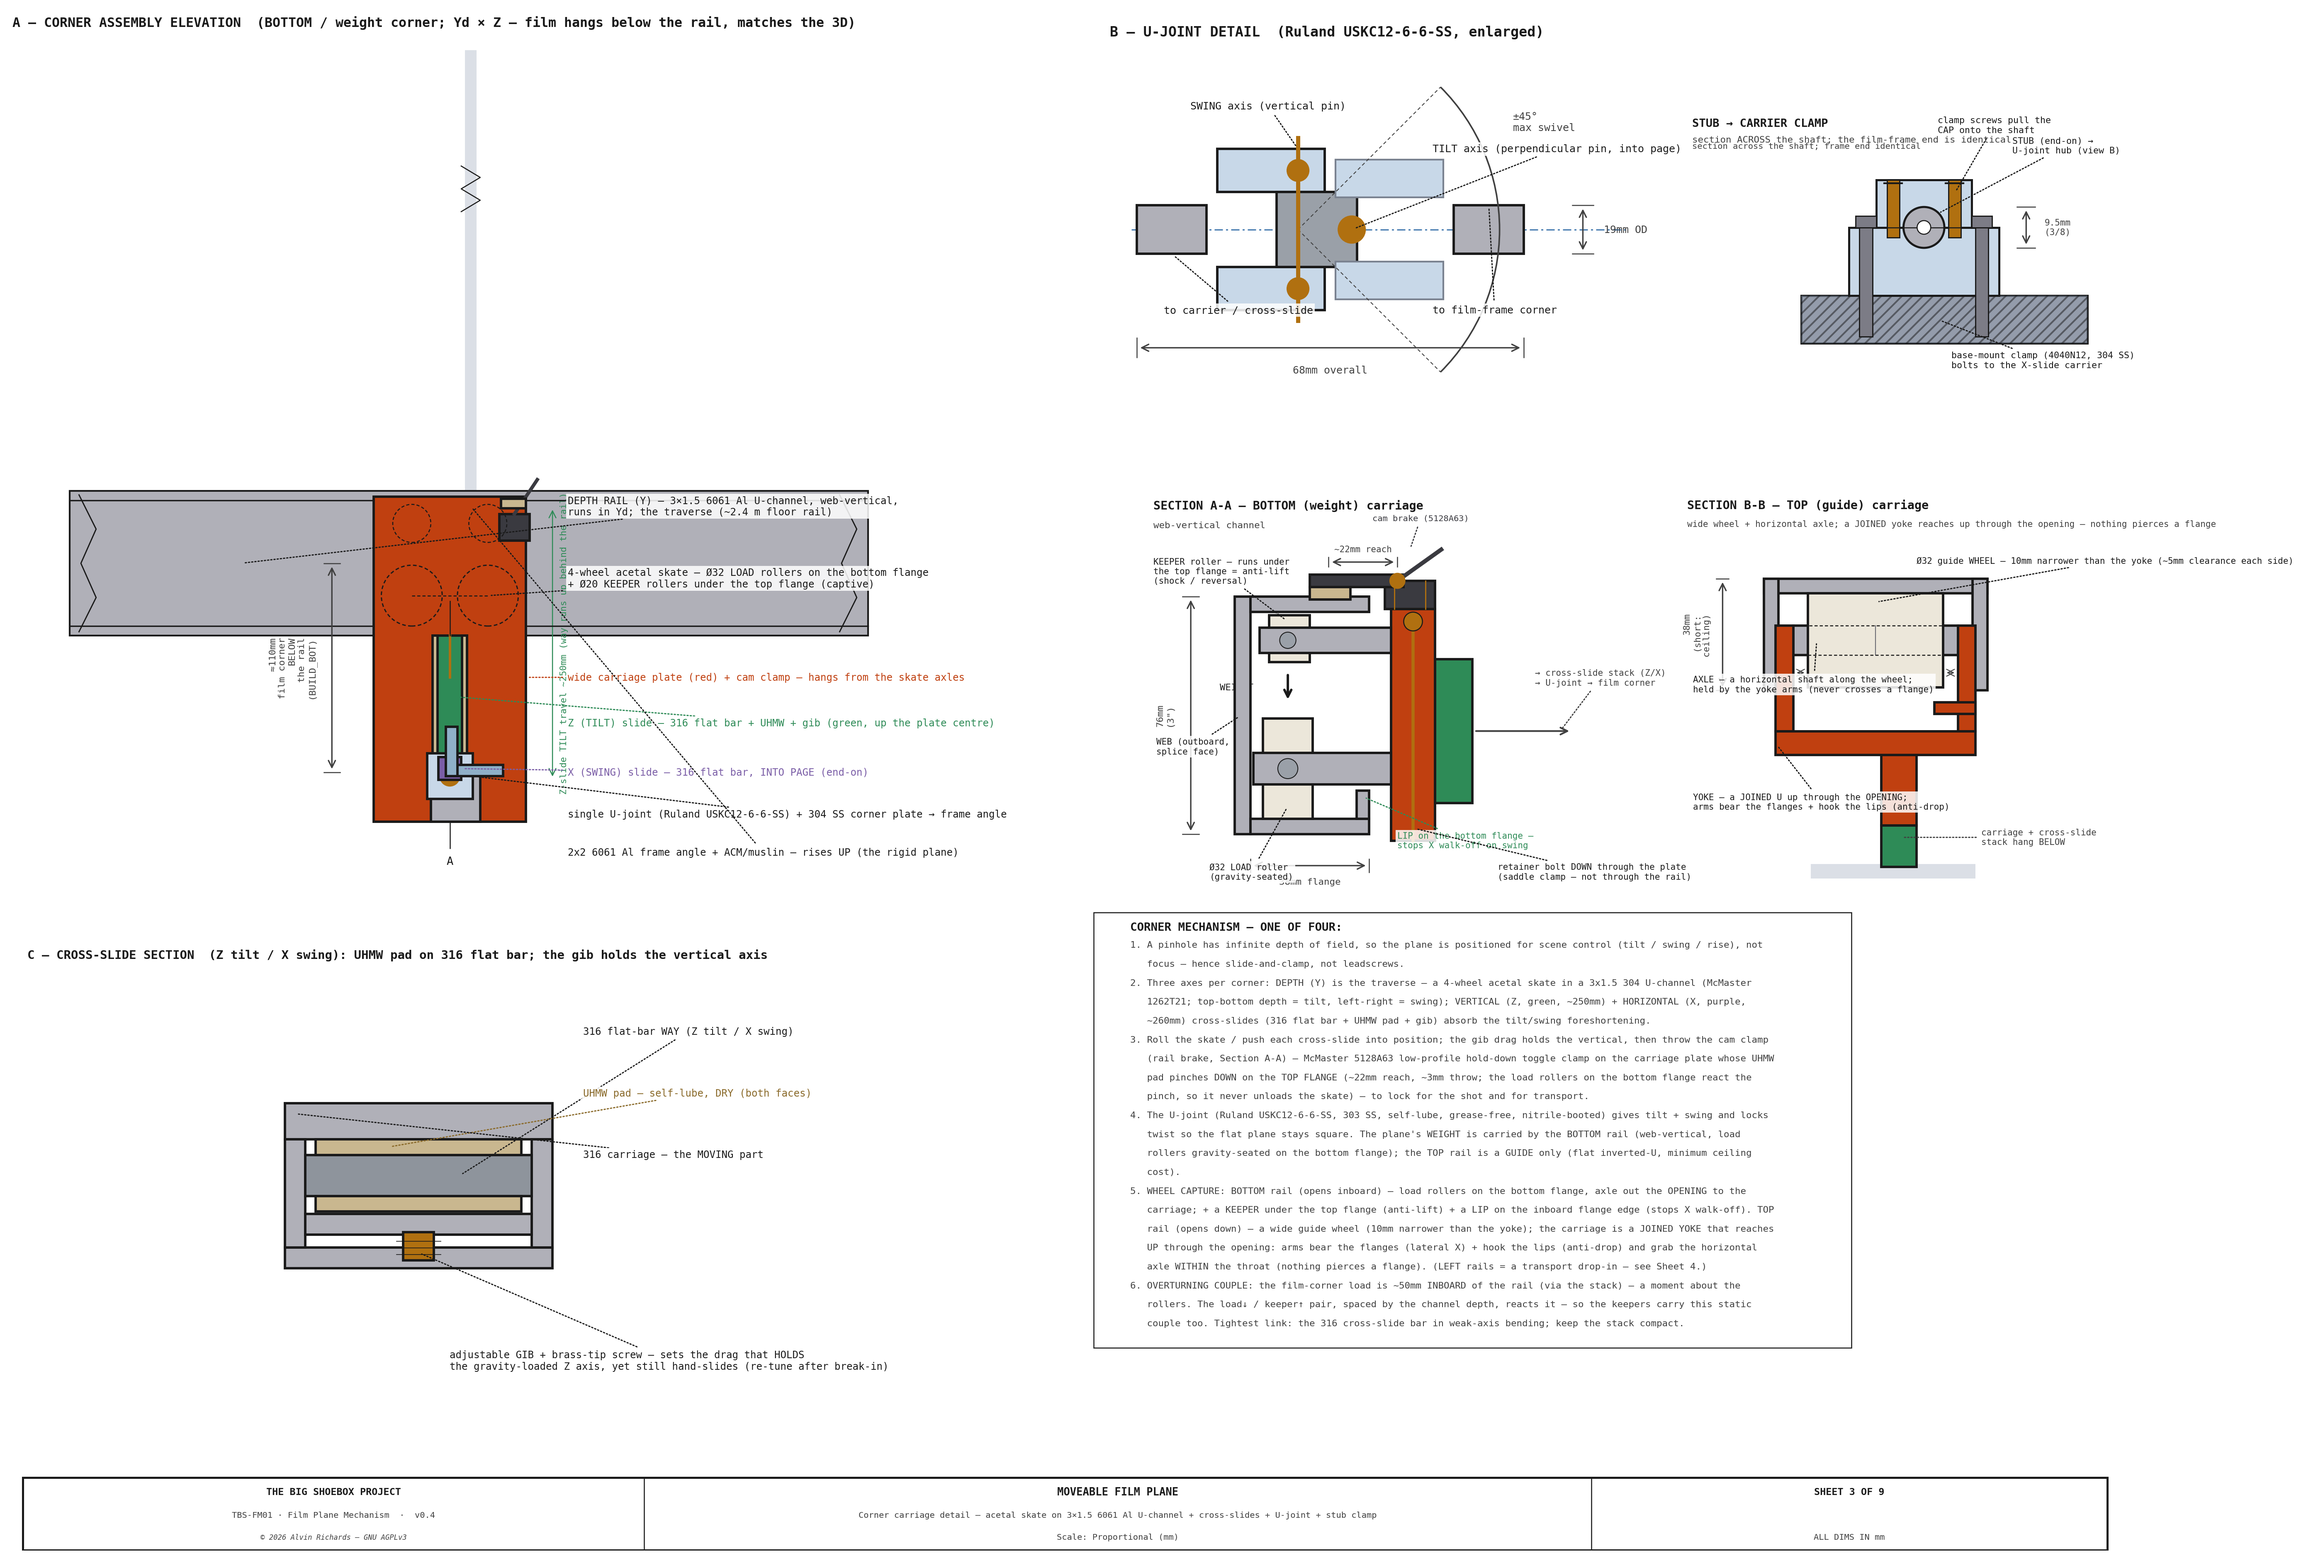
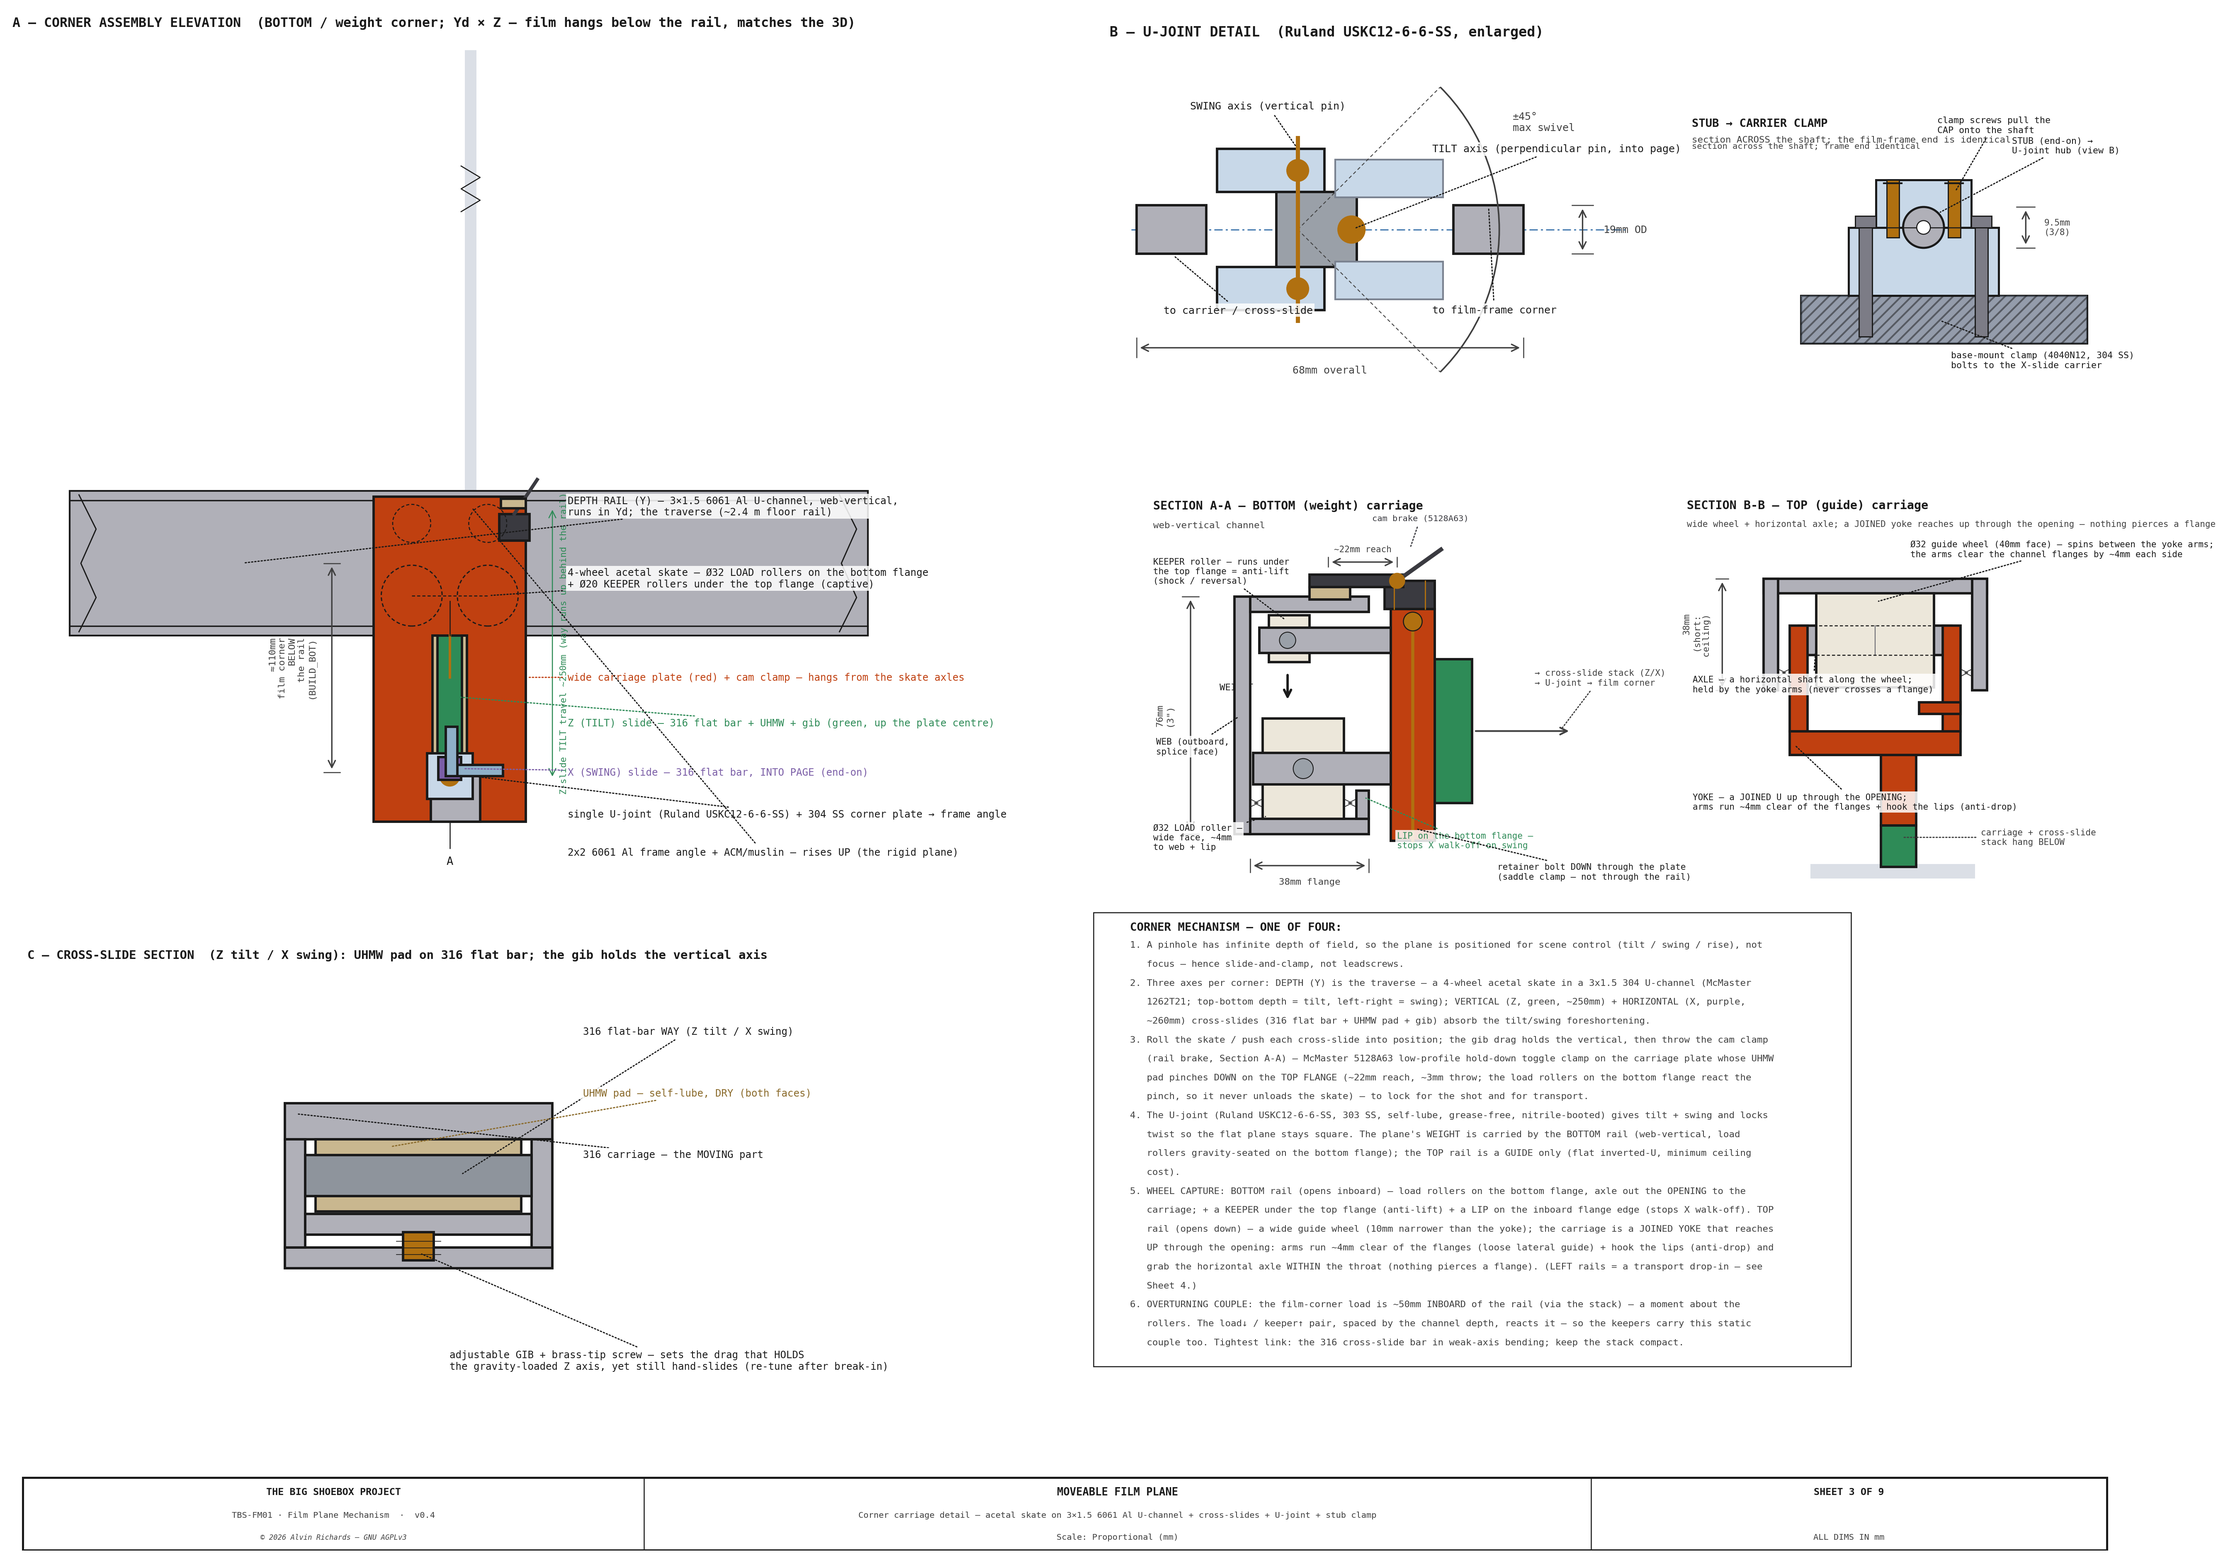
Sheet 3: widen A-A load roller + B-B yoke-flange clearance
Section A-A: load roller face 16->26mm so it nearly spans the flat running
surface (web->lip = 34mm), ~4mm clearance each side; clearance arrows + label.
Section B-B: move yoke arms in to clear the channel flanges by ~4mm each side,
shrink the guide wheel 46->40mm to keep ~3mm to each arm; retarget clearance
marks + reword the yoke labels/docstring/note 5 (arms no longer *bear* the
flanges — loose lateral guide).

diff --git a/src/generators/generate_film_plane_mechanism.py b/src/generators/generate_film_plane_mechanism.py
@@ -821,10 +821,14 @@ def section_aa(ax):
     _uchan_hatch(ax, 5, 0, 38, 5)          # BOTTOM flange (running surface)
     _uchan_hatch(ax, 39, 5, 4, 9)          # inboard LIP on the bottom flange (lateral keeper, X)
     _uchan_hatch(ax, 5, 71, 38, 5)         # top flange
-    # ── Ø32 acetal LOAD roller, gravity-seated on the bottom flange (edge-on: axis = X, in-plane) ──
-    _rect(ax, 9, 5, 16, 32, C_ACET, z=7)                                            # Ø32 LOAD roller (rim, cut)
+    # ── Ø32 acetal LOAD roller, gravity-seated on the bottom flange (edge-on: axis = X, in-plane). WIDE
+    #    FACE: nearly spans the flat running surface (web → lip = 34mm), ~4mm clearance to web + lip so it
+    #    can't wander in X yet still rolls free. ──
+    _rect(ax, 9, 5, 26, 32, C_ACET, z=7)                                            # Ø32 LOAD roller (rim, cut) — wide face
     _rect(ax, 6, 16, 44, 10, C_STEEL, z=8)                                          # Ø10 axle/shaft — runs THROUGH the wheel, cantilevered to the carriage
-    draw_circle(ax, 17, 21, 3.2, color=OUT, fill=True, fc="#9AA0A8", lw=0.5, zorder=9)  # hub at the wheel centre (shaft goes through)
+    draw_circle(ax, 22, 21, 3.2, color=OUT, fill=True, fc="#9AA0A8", lw=0.5, zorder=9)  # hub at the wheel centre (shaft goes through)
+    for gx0, gx1 in ((5, 9), (35, 39)):                                             # ~4mm running clearance, web + lip
+        ax.annotate("", xy=(gx1, 10), xytext=(gx0, 10), arrowprops=dict(arrowstyle="<->", color=DIM, lw=0.5))
     # ── KEEPER roller, just under the top flange (anti-lift), on its own stub axle ──
     _rect(ax, 11, 55, 13, 15, C_ACET, z=7)                                          # keeper roller (rim, cut)
     _rect(ax, 8, 58, 42, 8, C_STEEL, z=8)                                           # keeper stub axle — THROUGH the wheel to the carriage
@@ -858,7 +862,7 @@ def section_aa(ax):
     draw_dim_h(ax, 5, 43, -10, "38mm flange", offset=7, fs=5.4, color=DIM, above=False, font=FONT)
     # leaders
     leader(ax, 2, 38, -25, 28, "WEB (outboard,\nsplice face)", ha="left", fs=5.0, color=OUT, font=FONT, bbox=LBL_BG)
-    leader(ax, 17, 9, -8, -12, "Ø32 LOAD roller\n(gravity-seated)", ha="left", fs=5.0, color=OUT, font=FONT, bbox=LBL_BG)
+    leader(ax, 11, 6, -26, -1, "Ø32 LOAD roller —\nwide face, ~4mm\nto web + lip", ha="left", fs=5.0, color=OUT, font=FONT, bbox=LBL_BG)
     leader(ax, 17, 68, -26, 84, "KEEPER roller — runs under\nthe top flange = anti-lift\n(shock / reversal)", ha="left", fs=5.0, color=OUT, font=FONT, bbox=LBL_BG)
     leader(ax, 41, 12, 52, -2, "LIP on the bottom flange —\nstops X walk-off on swing", ha="left", fs=5.0, color=C_TILT, font=FONT, bbox=LBL_BG)
     leader(ax, 57, 2, 84, -12, "retainer bolt DOWN through the plate\n(saddle clamp — not through the rail)", ha="left", fs=5.0, color=OUT, font=FONT, bbox=LBL_BG)
@@ -872,39 +876,39 @@ def section_top(ax):
     """SECTION B-B — cut across the TOP (guide) rail. The 3×1.5 6061 Al U-channel is laid FLAT (inverted-U):
     web = closed TOP, flanges hang DOWN, so the channel OPENS DOWNWARD. The guide drum's axle therefore stays
     WITHIN the throat; the carriage is a YOKE that reaches UP through the opening (past the lips) — its arms
-    bear the flanges (lateral X) + hook the lips (anti-drop) and grab the axle ends, so nothing pierces a
-    flange. Top rail carries NO weight (a depth/lateral guide); short in Z = minimum ceiling cost."""
+    run ~4mm clear of the flanges (loose lateral guide) + hook the lips (anti-drop) and grab the axle ends, so
+    nothing pierces a flange. Top rail carries NO weight (a depth/lateral guide); short in Z = minimum ceiling cost."""
     ax.set_xlim(-26, 122); ax.set_ylim(-66, 66); ax.set_aspect("equal"); ax.axis("off")
     # inverted-U: web on top (closed), flanges hang down — opening faces DOWN
     _uchan_hatch(ax, 0, 33, 76, 5)          # web = closed top / splice face (76 wide)
     for fx in (0, 71):
         _uchan_hatch(ax, fx, 0, 5, 38)      # flanges hang down (38)
-    # WIDE Ø32 acetal guide WHEEL in the throat (Z guide, up against the web) — face width = 10mm NARROWER than the
-    # yoke span (arms at x10/x66 → 56 span → 46 face), leaving ~5mm running clearance to each yoke arm.
-    _rect(ax, 15, 1, 46, 32, C_ACET, z=7)
+    # WIDE Ø32 acetal guide WHEEL in the throat (Z guide, up against the web) — 40mm face, spins between the
+    # yoke arms (arms at x9-15 / x61-67 → 46 inner span → 40 face → ~3mm clearance to each arm).
+    _rect(ax, 18, 1, 40, 32, C_ACET, z=7)
     # AXLE — a HORIZONTAL shaft along the wheel's length (X); it runs out to the yoke arms and stays in the throat
-    _rect(ax, 10, 12, 56, 10, C_STEEL, z=6)
+    _rect(ax, 12, 12, 52, 10, C_STEEL, z=6)
     # ghost the axle where it is HIDDEN behind the wheel — shows the shaft passing THROUGH the wheel
-    ax.add_patch(plt.Rectangle((15, 12), 46, 10, fc="none", ec=OUT, lw=0.6, ls=(0, (3, 2)), zorder=9))
+    ax.add_patch(plt.Rectangle((18, 12), 40, 10, fc="none", ec=OUT, lw=0.6, ls=(0, (3, 2)), zorder=9))
     ax.plot([38, 38], [12, 22], color="#6A6A72", lw=0.5, zorder=8)
-    # ~5mm running-clearance marks between the wide wheel and each yoke arm
-    for gx0, gx1 in ((10, 15), (61, 66)):
+    # ~4mm running-clearance marks between each yoke arm and the channel flange it reaches past
+    for gx0, gx1 in ((5, 9), (67, 71)):
         ax.annotate("", xy=(gx1, 6), xytext=(gx0, 6), arrowprops=dict(arrowstyle="<->", color=DIM, lw=0.5))
-    # YOKE — a JOINED U-bracket up through the OPENING: two arms grab the axle ends + bear the flanges (lateral X)
+    # YOKE — a JOINED U-bracket up through the OPENING: two arms clear the flanges by ~4mm (running guide, lateral X)
     # + hook the lips (anti-drop), JOINED by a cross-piece below the opening (one part).
-    for ax_x in (4, 66):
-        _rect(ax, ax_x, -14, 6, 36, C_CAR, z=8)                                      # yoke arm (through opening, against a flange)
-    _rect(ax, 4, -22, 68, 8, C_CAR, z=8)                                             # cross-piece JOINS the two arms
-    _rect(ax, 58, -8, 14, 4, C_CAR, z=9)                                             # inboard lip-hook (anti-drop)
+    for ax_x in (9, 61):
+        _rect(ax, ax_x, -14, 6, 36, C_CAR, z=8)                                      # yoke arm (through opening, ~4mm off a flange)
+    _rect(ax, 9, -22, 58, 8, C_CAR, z=8)                                             # cross-piece JOINS the two arms
+    _rect(ax, 53, -8, 14, 4, C_CAR, z=9)                                             # inboard lip-hook (anti-drop)
     # carriage + stack hang from the joined yoke
     _rect(ax, 40, -46, 12, 24, C_CAR, z=6)                                           # carriage plate (below the yoke)
     _rect(ax, 40, -60, 12, 14, C_TILT, z=5)                                          # cross-slide (green) hangs below
     ax.add_patch(plt.Rectangle((16, -64), 56, 5, fc=C_PANEL, ec="none", alpha=0.16, zorder=2))  # film top edge ghost (hangs)
     ax.annotate("", xy=(38, 33), xytext=(38, 25), arrowprops=dict(arrowstyle="->", color=OUT, lw=1.0))  # guide reaction UP
     draw_dim_v(ax, -14, 0, 38, "38mm\n(short:\nceiling)", offset=7, fs=5.2, color=DIM, font=FONT)
-    leader(ax, 38, 30, 52, 44, "Ø32 guide WHEEL — 10mm narrower than the yoke (~5mm clearance each side)", ha="left", fs=5.0, color=OUT, font=FONT, bbox=LBL_BG)
+    leader(ax, 38, 30, 50, 48, "Ø32 guide wheel (40mm face) — spins between the yoke arms;\nthe arms clear the channel flanges by ~4mm each side", ha="left", fs=5.0, color=OUT, font=FONT, bbox=LBL_BG)
     leader(ax, 18, 17, -24, 2, "AXLE — a horizontal shaft along the wheel;\nheld by the yoke arms (never crosses a flange)", ha="left", fs=5.0, color=OUT, font=FONT, bbox=LBL_BG)
-    leader(ax, 4, -18, -24, -38, "YOKE — a JOINED U up through the OPENING;\narms bear the flanges + hook the lips (anti-drop)", ha="left", fs=5.0, color=OUT, font=FONT, bbox=LBL_BG)
+    leader(ax, 10, -18, -24, -38, "YOKE — a JOINED U up through the OPENING;\narms run ~4mm clear of the flanges + hook the lips (anti-drop)", ha="left", fs=5.0, color=OUT, font=FONT, bbox=LBL_BG)
     leader(ax, 46, -50, 74, -50, "carriage + cross-slide\nstack hang BELOW", ha="left", fs=5.0, color=DIM, font=FONT, bbox=LBL_BG)
     ax.text(-26, 65, "SECTION B-B — TOP (guide) carriage",
             fontsize=6.8, fontweight="bold", color=OUT, ha="left", va="top", **FONT)
@@ -986,8 +990,8 @@ def sheet3():
         "5. WHEEL CAPTURE: BOTTOM rail (opens inboard) — load rollers on the bottom flange, axle out the "
         "OPENING to the carriage; + a KEEPER under the top flange (anti-lift) + a LIP on the inboard flange "
         "edge (stops X walk-off). TOP rail (opens down) — a wide guide wheel (10mm narrower than the yoke); the "
-        "carriage is a JOINED YOKE that reaches UP through the opening: arms bear the flanges (lateral X) + "
-        "hook the lips (anti-drop) and grab the horizontal axle WITHIN the throat (nothing pierces a flange). "
+        "carriage is a JOINED YOKE that reaches UP through the opening: arms run ~4mm clear of the flanges "
+        "(loose lateral guide) + hook the lips (anti-drop) and grab the horizontal axle WITHIN the throat (nothing pierces a flange). "
         "(LEFT rails = a transport drop-in — see Sheet 4.)",
         "6. OVERTURNING COUPLE: the film-corner load is ~50mm INBOARD of the rail (via the stack) — a moment "
         "about the rollers. The load↓ / keeper↑ pair, spaced by the channel depth, reacts it — so the keepers "
